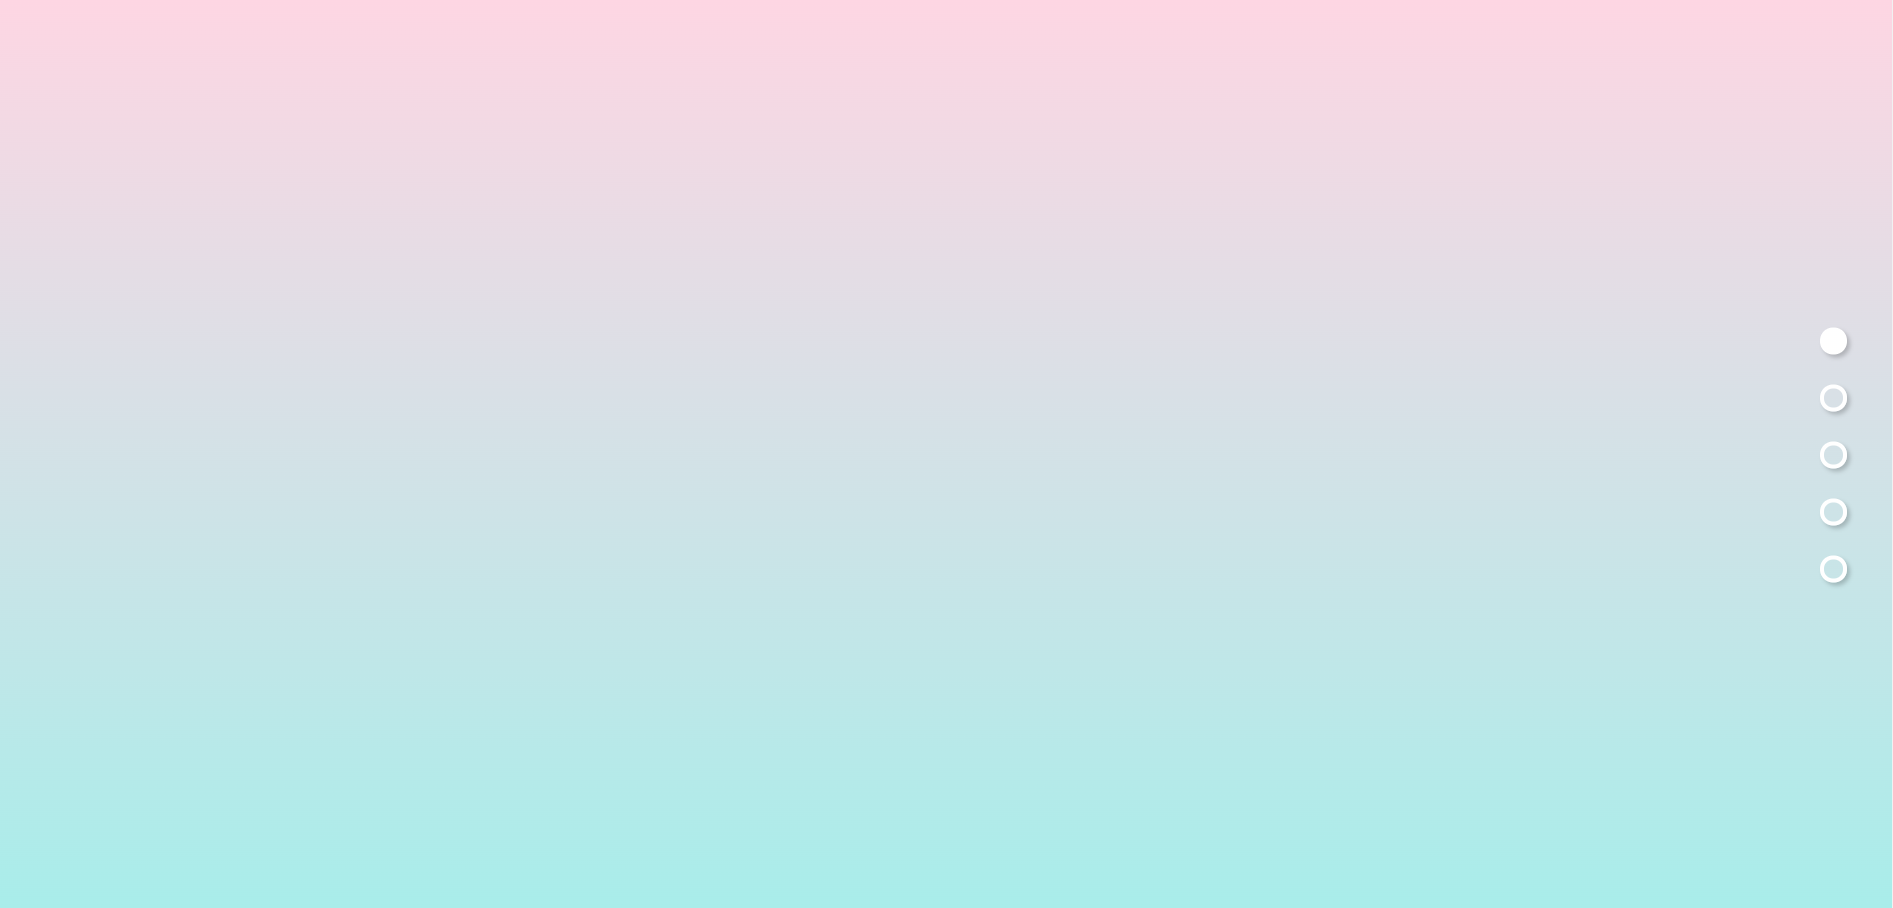
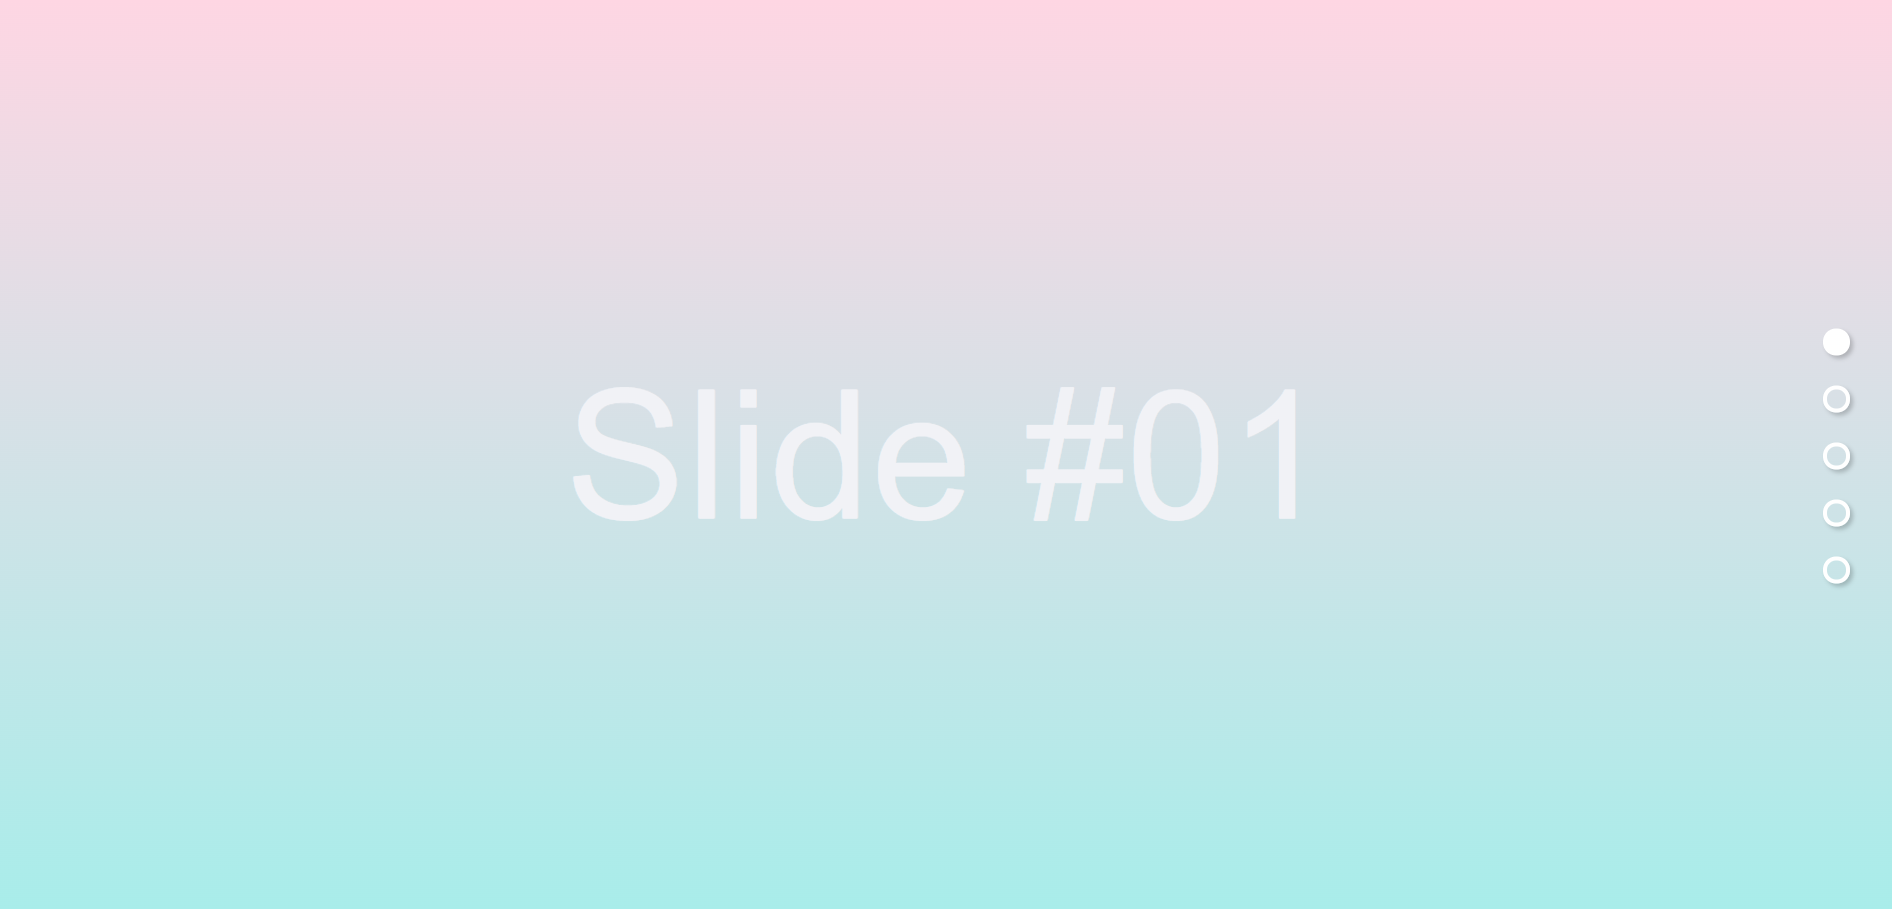
practical

Changed region(s): [[0.2807, 0.4317, 0.686, 0.5859], [0.9667, 0.4317, 1.0, 1.0], [0.9979, 0.0, 1.0, 0.0925]]

diff --git a/index.html b/index.html
@@ -361,14 +361,55 @@
         <div class="inner">
           <h3>PRACTICAL PUBLISHING</h3>
           <ul class="main-practical__menu">
-            <li class="selected" data-link="animation"><a href="#"><span>ANIMATION</span></a></li>
+            <li class="selected" data-link="prototype"><a href="#"><span>PROTOTYPE</span></a></li>
+            <li data-link="animation"><a href="#"><span>ANIMATION</span></a></li>
             <li data-link="hover"><a href="#"><span>HOVER</span></a></li>
             <li data-link="navigation"><a href="#"><span>NAVIGATION</span></a></li>
-            <li data-link="prototype"><a href="#"><span>PROTOTYPE</span></a></li>
             <li data-link="js"><a href="#"><span>JS</span></a></li>
           </ul>
           <div class="contents">
-            <div class="main-practical__content swiper animation visible" data-filter="animation">
+            <div class="main-practical__content swiper prototype visible" data-filter="prototype">
+              <div class="swiper-wrapper">
+                <div class="swiper-slide">
+                  <a href="./portfolio/practical-works/prototype/01/profile1.html" data-featherlight="iframe">
+                    <img src="./img/practical/prototype/1.png" alt="" />
+                    <div class="title">
+                      <span>PROTOTYPE #1</span>
+                      <span>#HTML #CSS</span>
+                    </div>
+                  </a>
+                </div>
+                <div class="swiper-slide">
+                  <a href="./portfolio/practical-works/prototype/02/prototype2.html" data-featherlight="iframe">
+                    <img src="./img/practical/prototype/2.png" alt="" />
+                    <div class="title">
+                      <span>PROTOTYPE #2</span>
+                      <span>#HTML #CSS</span>
+                    </div>
+                  </a>
+                </div>
+                <div class="swiper-slide">
+                  <a href="./portfolio/practical-works/prototype/03/prototype3.html" data-featherlight="iframe">
+                    <img src="./img/practical/prototype/3.png" alt="" />
+                    <div class="title">
+                      <span>PROTOTYPE #3</span>
+                      <span>#HTML #CSS</span>
+                    </div>
+                  </a>
+                </div>
+                <div class="swiper-slide">
+                  <a href="./portfolio/practical-works/prototype/04/prototype4.html" data-featherlight="iframe">
+                    <img src="./img/practical/prototype/4.png" alt="" />
+                    <div class="title">
+                      <span>PROTOTYPE #4</span>
+                      <span>#HTML #CSS</span>
+                    </div>
+                  </a>
+                </div>
+              </div>
+              <div class="swiper-pagination"></div>
+            </div>
+            <div class="main-practical__content swiper animation" data-filter="animation">
               <div class="swiper-wrapper">
                 <div class="swiper-slide">
                   <a href="./portfolio/practical-works/animation/01/animation1.html" data-featherlight="iframe">
@@ -448,47 +489,6 @@
                     <img src="./img/practical/navigation/3.png" alt="" />
                     <div class="title">
                       <span>NAVIGATION #3</span>
-                      <span>#HTML #CSS</span>
-                    </div>
-                  </a>
-                </div>
-              </div>
-              <div class="swiper-pagination"></div>
-            </div>
-            <div class="main-practical__content swiper prototype" data-filter="prototype">
-              <div class="swiper-wrapper">
-                <div class="swiper-slide">
-                  <a href="./portfolio/practical-works/prototype/01/profile1.html" data-featherlight="iframe">
-                    <img src="./img/practical/prototype/1.png" alt="" />
-                    <div class="title">
-                      <span>PROTOTYPE #1</span>
-                      <span>#HTML #CSS</span>
-                    </div>
-                  </a>
-                </div>
-                <div class="swiper-slide">
-                  <a href="./portfolio/practical-works/prototype/02/prototype2.html" data-featherlight="iframe">
-                    <img src="./img/practical/prototype/2.png" alt="" />
-                    <div class="title">
-                      <span>PROTOTYPE #2</span>
-                      <span>#HTML #CSS</span>
-                    </div>
-                  </a>
-                </div>
-                <div class="swiper-slide">
-                  <a href="./portfolio/practical-works/prototype/03/prototype3.html" data-featherlight="iframe">
-                    <img src="./img/practical/prototype/3.png" alt="" />
-                    <div class="title">
-                      <span>PROTOTYPE #3</span>
-                      <span>#HTML #CSS</span>
-                    </div>
-                  </a>
-                </div>
-                <div class="swiper-slide">
-                  <a href="./portfolio/practical-works/prototype/04/prototype4.html" data-featherlight="iframe">
-                    <img src="./img/practical/prototype/4.png" alt="" />
-                    <div class="title">
-                      <span>PROTOTYPE #4</span>
                       <span>#HTML #CSS</span>
                     </div>
                   </a>

diff --git a/portfolio/practical-works/js/03/index.html b/portfolio/practical-works/js/03/index.html
@@ -14,19 +14,19 @@
     <ul id="page-indicator">
     </ul>
     <section class="page page-01">
-        <h2 class="hide">1번 슬라이드</h2>
+        <h2>Slide #01</h2>
     </section>
     <section class="page page-02">
-        <h2 class="hide">2번 슬라이드</h2>
+        <h2>Slide #02</h2>
     </section>
     <section class="page page-03">
-        <h2 class="hide">3번 슬라이드</h2>
+        <h2>Slide #03</h2>
     </section>
     <section class="page page-04">
-        <h2 class="hide">4번 슬라이드</h2>
+        <h2>Slide #04</h2>
     </section>
     <section class="page page-05">
-        <h2 class="hide">5번 슬라이드</h2>
+        <h2>Slide #05</h2>
     </section>
   </div>
 

diff --git a/portfolio/practical-works/js/03/css/style.css b/portfolio/practical-works/js/03/css/style.css
@@ -69,3 +69,16 @@ section.page-04 {
 section.page-05 {
   background-image: linear-gradient(-225deg, #B7F8DB 0%, #50A7C2 100%);
 }
+
+section h2 {
+  position: absolute;
+  left: 50%;
+  top: 50%;
+  transform: translate(-50%, -50%);
+  margin: 0;
+  font-family: arial;
+  font-size: 120px;
+  font-weight: 300;
+  letter-spacing: 1px;
+  color: #f1f2f6;
+}
